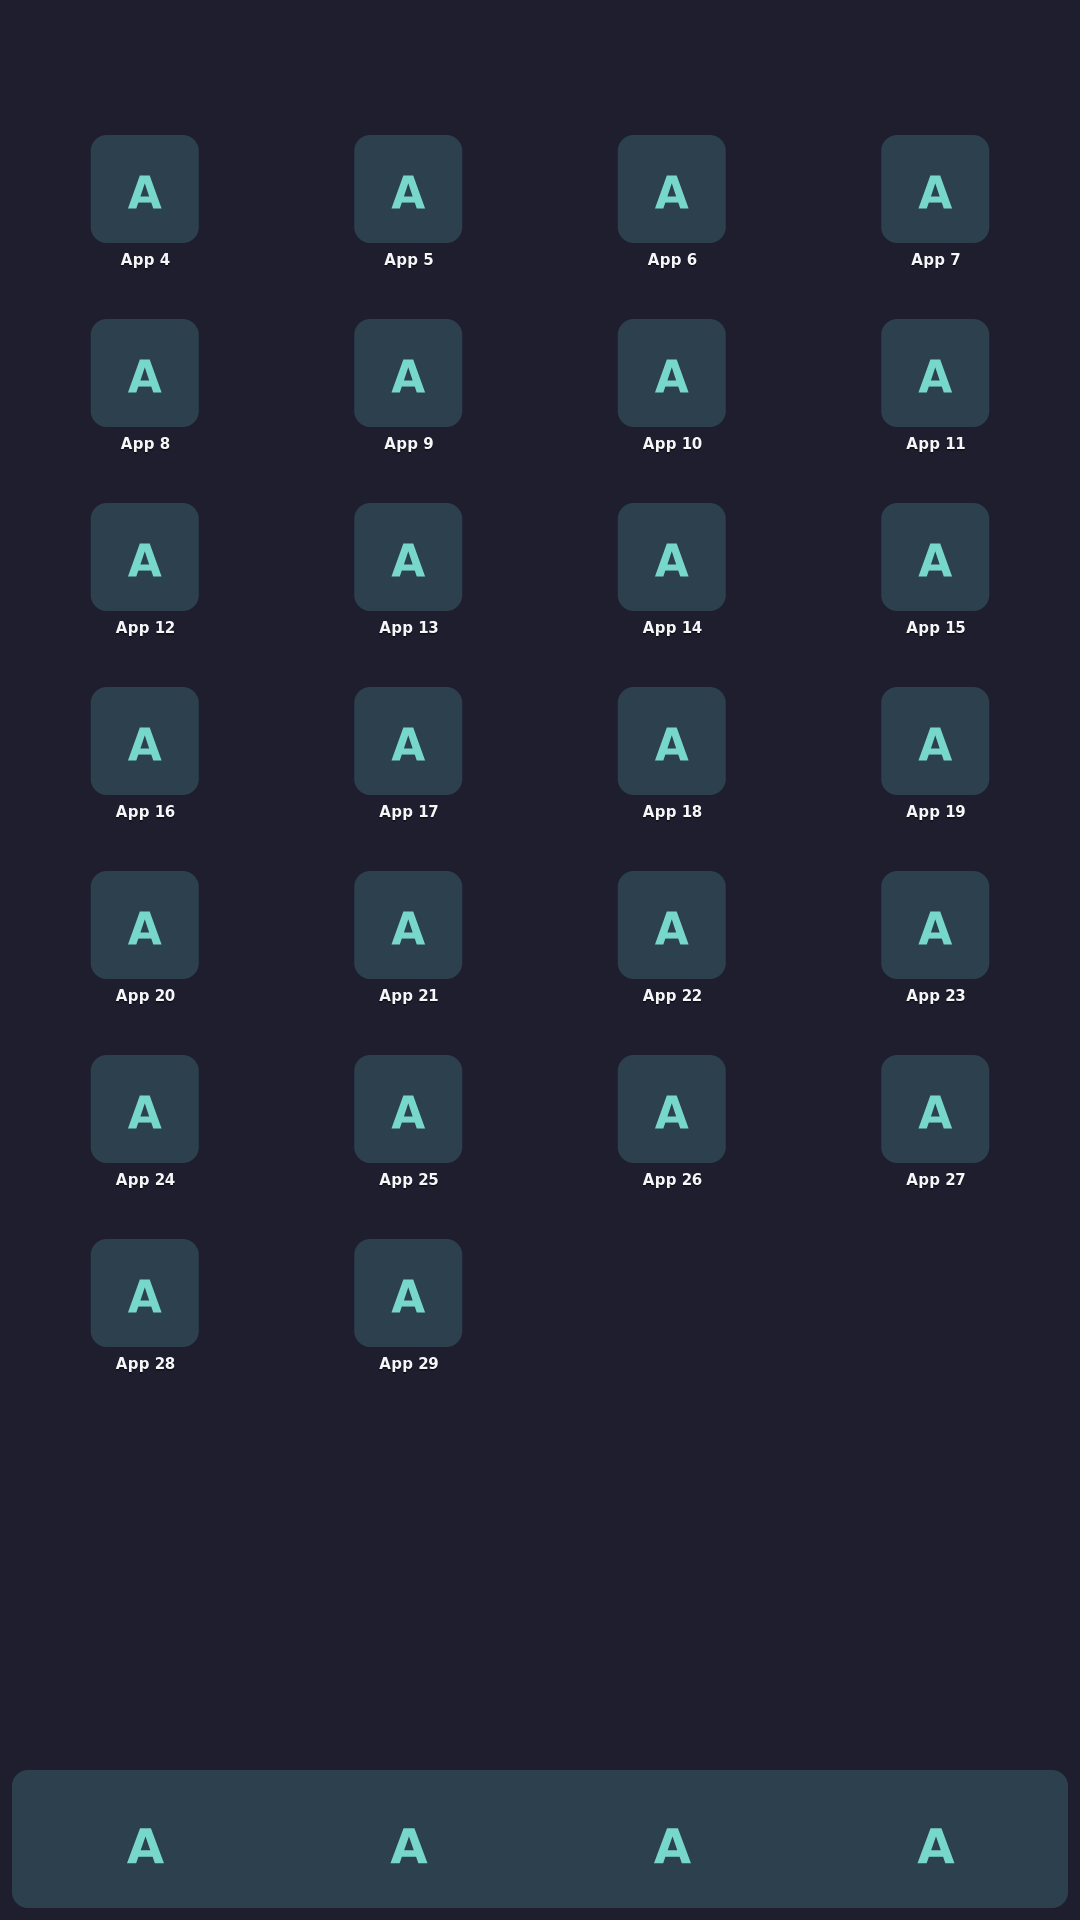
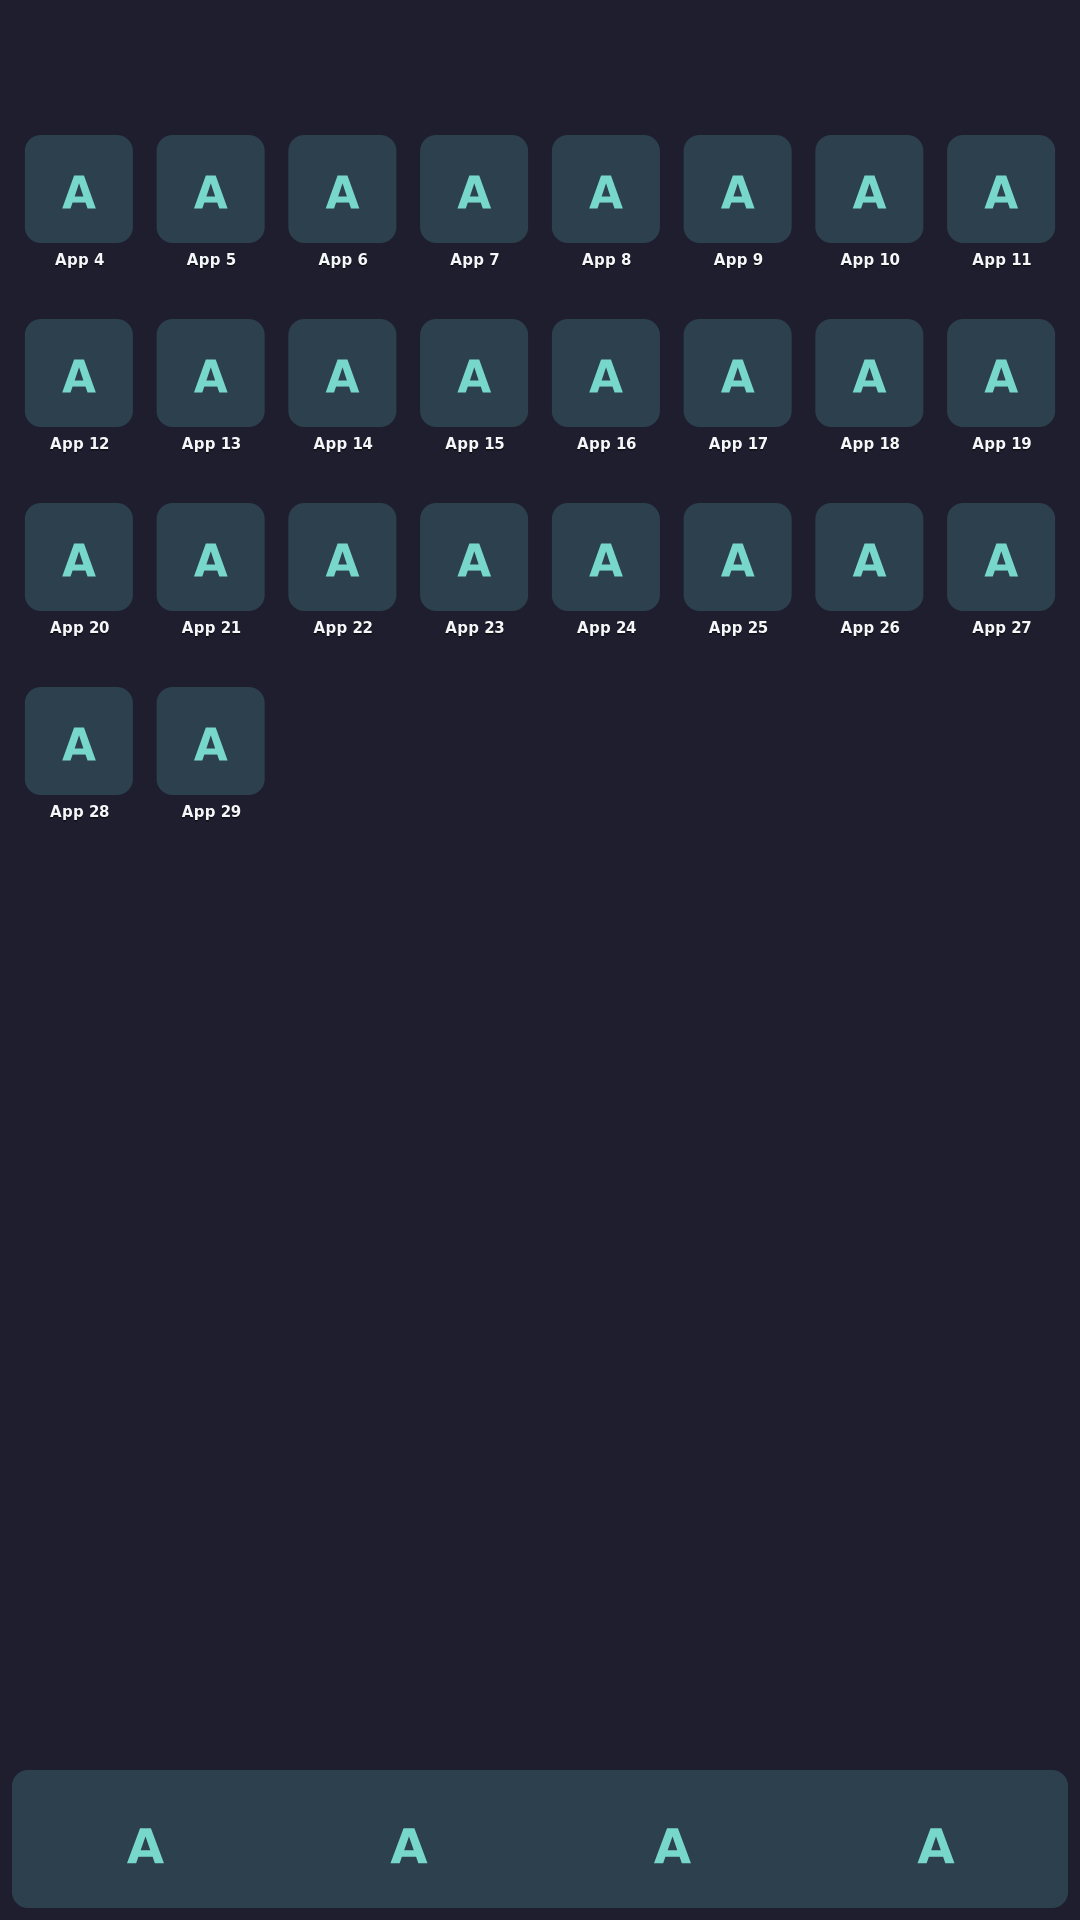
shell: add shared density-scale and column-reflow helpers
lib.rs gains density_scale (a uniform 1.0-2.0 content scale derived from
how much taller/denser a surface is than the 568x1232 design, clamped so
the native panel stays exactly 1.0), reflow_columns (a column count
proportional to width at a given scale, floored at a base count), and
settings_content_transform (Settings' own centered-column scale/offset,
built on density_scale). navigation::columns_for_width now delegates to
reflow_columns instead of repeating its formula -- behavior-preserving,
every existing Drawer test passes unchanged.

cargo test: 392 passed (389 + 3 new lib.rs tests).

Changed region(s): [[0.0, 0.0625, 0.9778, 0.7188]]

diff --git a/nix/rust-shell-client/src/lib.rs b/nix/rust-shell-client/src/lib.rs
@@ -4,6 +4,7 @@ pub mod app_watch;
 pub mod appearance;
 pub mod background_decode;
 pub mod catalog;
+pub mod evidence_render;
 pub mod home_grid;
 pub mod home_pager;
 pub mod home_screen;
@@ -130,6 +131,70 @@ pub fn configure_preserves_aspect(width: u32, height: u32) -> bool {
     ((ratio / DESIGN_ASPECT) - 1.0).abs() <= 0.10
 }
 
+/// The design's own reference size: every fixed-pixel constant in
+/// `home_grid.rs`, `navigation.rs`, and `render.rs`'s Settings row rhythm
+/// was authored against a panel exactly this size, at `density_scale`'s own
+/// `1.0`.
+pub const DESIGN_WIDTH: f64 = 568.0;
+pub const DESIGN_HEIGHT: f64 = 1232.0;
+
+/// How much bigger content should paint on a surface denser/taller than the
+/// 568x1232 design, so a large HDMI output's text/controls don't read as
+/// tiny just because they're drawn at the same pixel size as this panel's
+/// own physical DPI. `min(w, h)` against each axis's own design length (not
+/// physical DPI, which this client has no reliable way to read from the
+/// compositor) so a surface that is wide but *not* tall (1920x1080
+/// landscape, shorter than the 1232-design height) does not get scaled up
+/// on the strength of its width alone -- see `reflow_columns`'s own doc for
+/// why width alone already gives that case more columns instead. Clamped
+/// to `[1.0, 2.0]`: never *shrinks* content below the panel's own native
+/// size (this must stay `1.0` there, for pixel-identical output), and never
+/// grows it past 2x, past which point a Settings row would be larger than
+/// this design was ever laid out to comfortably hold.
+pub fn density_scale(width: u32, height: u32) -> f64 {
+    if width == 0 || height == 0 {
+        return 1.0;
+    }
+    let scale = (f64::from(width) / DESIGN_WIDTH).min(f64::from(height) / DESIGN_HEIGHT);
+    scale.clamp(1.0, 2.0)
+}
+
+/// How many `base_columns`-pitch columns (as authored at `DESIGN_WIDTH`,
+/// `scale` `1.0`) fit `width` at a given `scale`, rounded to the nearest
+/// whole column and never fewer than `base_columns` -- a configure this
+/// narrow is already rejected before any caller reaches this (`configure_
+/// size`/`configure_preserves_aspect`), but this stays a safe floor
+/// regardless. Shared by `navigation::columns_for_width` (the Drawer) and
+/// `home_grid::columns_for_width` (Home's grid), both called with `scale`
+/// fixed at `1.0`: reflow there is deliberately just "more columns of the
+/// same pixel size," not "fewer, bigger columns," because unlike Settings'
+/// single centered content column, a grid's whole point is to use width as
+/// more cells, not as bigger cells with wasted gaps between them.
+pub fn reflow_columns(width: u32, scale: f64, base_columns: usize) -> usize {
+    if base_columns == 0 {
+        return 0;
+    }
+    let safe_scale = if scale > 0.0 { scale } else { 1.0 };
+    let scaled = (f64::from(width) / (safe_scale * DESIGN_WIDTH) * base_columns as f64).round();
+    (scaled as usize).max(base_columns)
+}
+
+/// Settings' own centered content column: `(scale, x_offset)`, both design
+/// units against the surface's real `(width, height)`. `scale` is `density_
+/// scale`'s own value (so Settings' rows/text genuinely get bigger on a
+/// dense/tall output, not just re-centered); the column's own width is the
+/// design's `568` at that scale, capped to the real surface width so an
+/// unexpectedly narrow surface never gets a column wider than itself.
+/// `main.rs`'s `panel_intent` and `render.rs`'s `scene` both call this --
+/// never recompute the transform independently in one without the other,
+/// or a tap and its paint drift apart.
+pub fn settings_content_transform(width: u32, height: u32) -> (f64, f64) {
+    let scale = density_scale(width, height);
+    let content_w = (DESIGN_WIDTH * scale).min(f64::from(width));
+    let x = (f64::from(width) - content_w) / 2.0;
+    (scale, x)
+}
+
 /// The renderer may repaint only a slot the compositor has released. With
 /// all three slots busy it defers the new frame instead of growing without
 /// bound or writing memory still owned by the compositor.
@@ -249,6 +314,64 @@ mod tests {
         assert_eq!(frame_bytes(768, 1024), Some(3_145_728));
         assert_eq!(frame_bytes(1080, 1920), Some(8_294_400));
         assert_eq!(frame_bytes(1920, 1080), Some(8_294_400));
+    }
+
+    #[test]
+    fn density_scale_is_pixel_identical_at_native_and_bounded_above() {
+        // The panel itself, and any surface no denser than it on either
+        // axis, must stay at exactly 1.0 -- this is the "568x1232 stays
+        // pixel-identical" guarantee every scaled-content caller relies on.
+        assert_eq!(density_scale(568, 1232), 1.0);
+        assert_eq!(density_scale(768, 1024), 1.0, "shorter than design height clamps up to 1.0");
+        // Landscape HDMI: shorter than the design height, so the *height*
+        // ratio (which is what wins the `min`) pulls this to exactly 1.0
+        // even though the surface is far wider than the panel.
+        assert_eq!(density_scale(1920, 1080), 1.0);
+        // Rotated-portrait HDMI: taller and narrower than landscape, so the
+        // height ratio (1920/1232) wins and is genuinely > 1.0.
+        assert!((density_scale(1080, 1920) - 1920.0 / 1232.0).abs() < 1e-9);
+        // Upper bound: an extremely tall/dense surface never scales past 2x.
+        assert_eq!(density_scale(4000, 4000), 2.0);
+        // Degenerate input never panics or divides by zero.
+        assert_eq!(density_scale(0, 1232), 1.0);
+        assert_eq!(density_scale(568, 0), 1.0);
+    }
+
+    #[test]
+    fn reflow_columns_matches_base_at_design_width_and_only_grows() {
+        assert_eq!(reflow_columns(568, 1.0, 4), 4);
+        assert_eq!(reflow_columns(300, 1.0, 4), 4, "never fewer than the base");
+        assert_eq!(reflow_columns(768, 1.0, 4), 5);
+        assert_eq!(reflow_columns(1080, 1.0, 4), 8);
+        assert_eq!(reflow_columns(1920, 1.0, 4), 14);
+        // A larger scale (bigger tiles) needs more real width per column,
+        // so it yields fewer columns than the same width at scale 1.0.
+        assert!(reflow_columns(1080, 1.6, 4) < reflow_columns(1080, 1.0, 4));
+    }
+
+    #[test]
+    fn settings_content_transform_fills_the_panel_at_native_size() {
+        // 568x1232: scale 1.0, no horizontal offset -- the content column
+        // is exactly the panel, unchanged from before this transform
+        // existed.
+        assert_eq!(settings_content_transform(568, 1232), (1.0, 0.0));
+        // A wide landscape output gets a centered, still-568-wide column
+        // rather than stretching edge to edge.
+        let (scale, x) = settings_content_transform(1920, 1080);
+        assert_eq!(scale, 1.0);
+        assert!((x - (1920.0 - 568.0) / 2.0).abs() < 1e-9);
+        // A tall, denser output scales the column up (bigger content) and
+        // still centers whatever width that scaled column occupies.
+        let (scale, x) = settings_content_transform(1080, 1920);
+        assert!(scale > 1.0);
+        let content_w = 568.0 * scale;
+        assert!(content_w <= 1080.0);
+        assert!((x - (1080.0 - content_w) / 2.0).abs() < 1e-9);
+        // Pathologically narrow: the column is capped to the real width
+        // (never wider than the surface itself), with no offset left over.
+        let (scale, x) = settings_content_transform(300, 1232);
+        assert_eq!(scale, 1.0);
+        assert_eq!(x, 0.0);
     }
 
     #[test]

diff --git a/nix/rust-shell-client/src/navigation.rs b/nix/rust-shell-client/src/navigation.rs
@@ -10,24 +10,21 @@
 /// `2*24 + 3*24 + 4*112 = 568`, so the grid is centered with no remainder
 /// and no separate centering offset to compute.
 pub const COLUMNS: usize = 4;
-/// This panel's own design width -- `columns_for_width`'s reference point.
-const DESIGN_WIDTH: f64 = 568.0;
 
-/// How many drawer grid columns fit `width`: proportional to `COLUMNS` at
-/// `DESIGN_WIDTH` so a wider (HDMI) output gets more columns at roughly
-/// this module's own 112px reference tile width, instead of `COLUMNS`
-/// staying fixed at 4 and each cell stretching into a wide, sparse tile
-/// (`feat/shell-responsive`: the operator did not want an HDMI output's
-/// drawer to just have four huge tiles). Never fewer than `COLUMNS`,
-/// so a configure this shell would already reject as too narrow (see
-/// `configure_size`/`configure_preserves_aspect` in `lib.rs`) cannot drive
-/// this to zero. Pure and stateless -- unlike `home_grid`'s per-page
-/// layout, the drawer has no persisted per-column data to keep in sync,
-/// only this live tile geometry and the matching `tile_at` hit-test, both
-/// of which call this on every use.
+/// How many drawer grid columns fit `width`: `crate::reflow_columns` at
+/// scale `1.0` -- more columns of this module's own 112px reference tile
+/// width on a wider (HDMI) output, instead of `COLUMNS` staying fixed at 4
+/// and each cell stretching into a wide, sparse tile (`feat/shell-
+/// responsive`: the operator did not want an HDMI output's drawer to just
+/// have four huge tiles). Scale is fixed at `1.0` here rather than `crate::
+/// density_scale`'s own value on purpose: a grid's extra width should
+/// become more cells, not bigger ones -- see `reflow_columns`'s own doc.
+/// Pure and stateless -- unlike `home_grid`'s per-page layout, the drawer
+/// has no persisted per-column data to keep in sync, only this live tile
+/// geometry and the matching `tile_at` hit-test, both of which call this on
+/// every use.
 pub fn columns_for_width(width: u32) -> usize {
-    let scaled = (f64::from(width) * COLUMNS as f64 / DESIGN_WIDTH).round();
-    (scaled as usize).max(COLUMNS)
+    crate::reflow_columns(width, 1.0, COLUMNS)
 }
 /// The cell's full vertical pitch: an icon, a small gap, a single-line
 /// label, and the row's own share of vertical breathing room -- see
